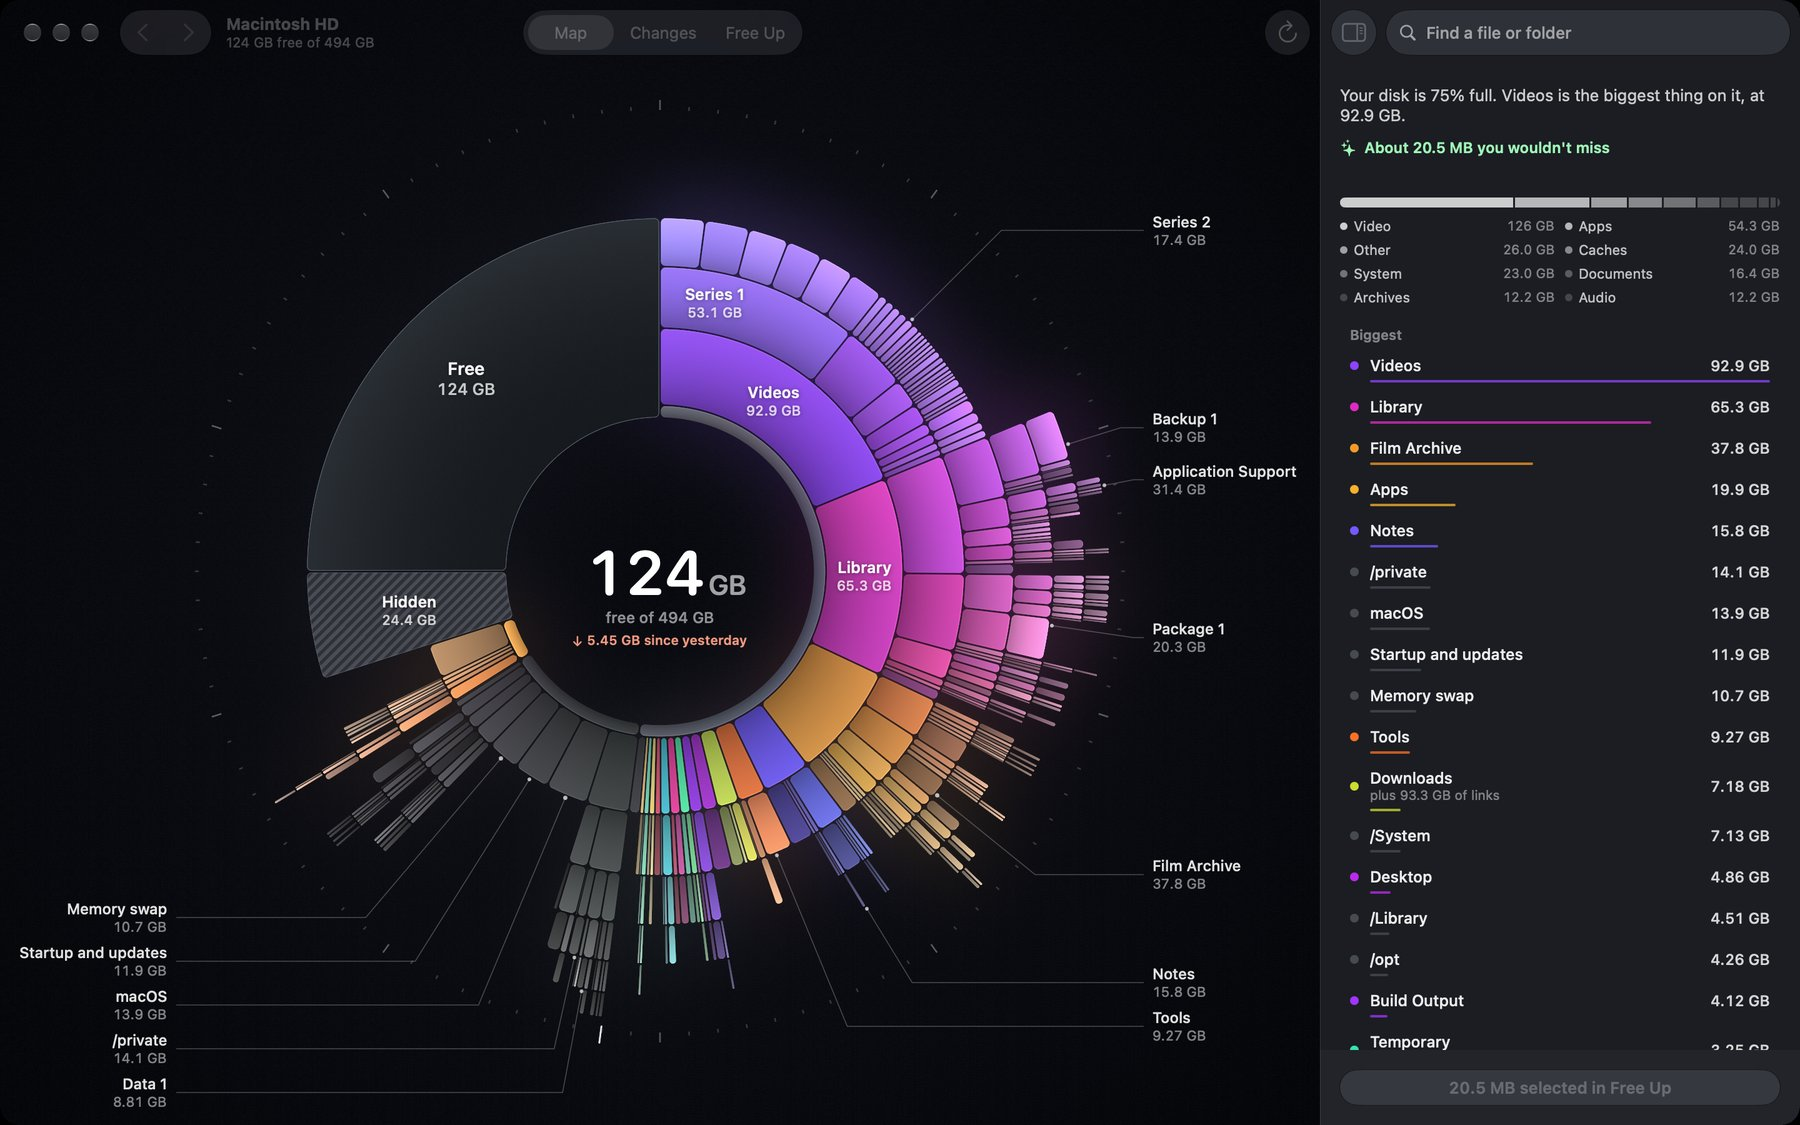
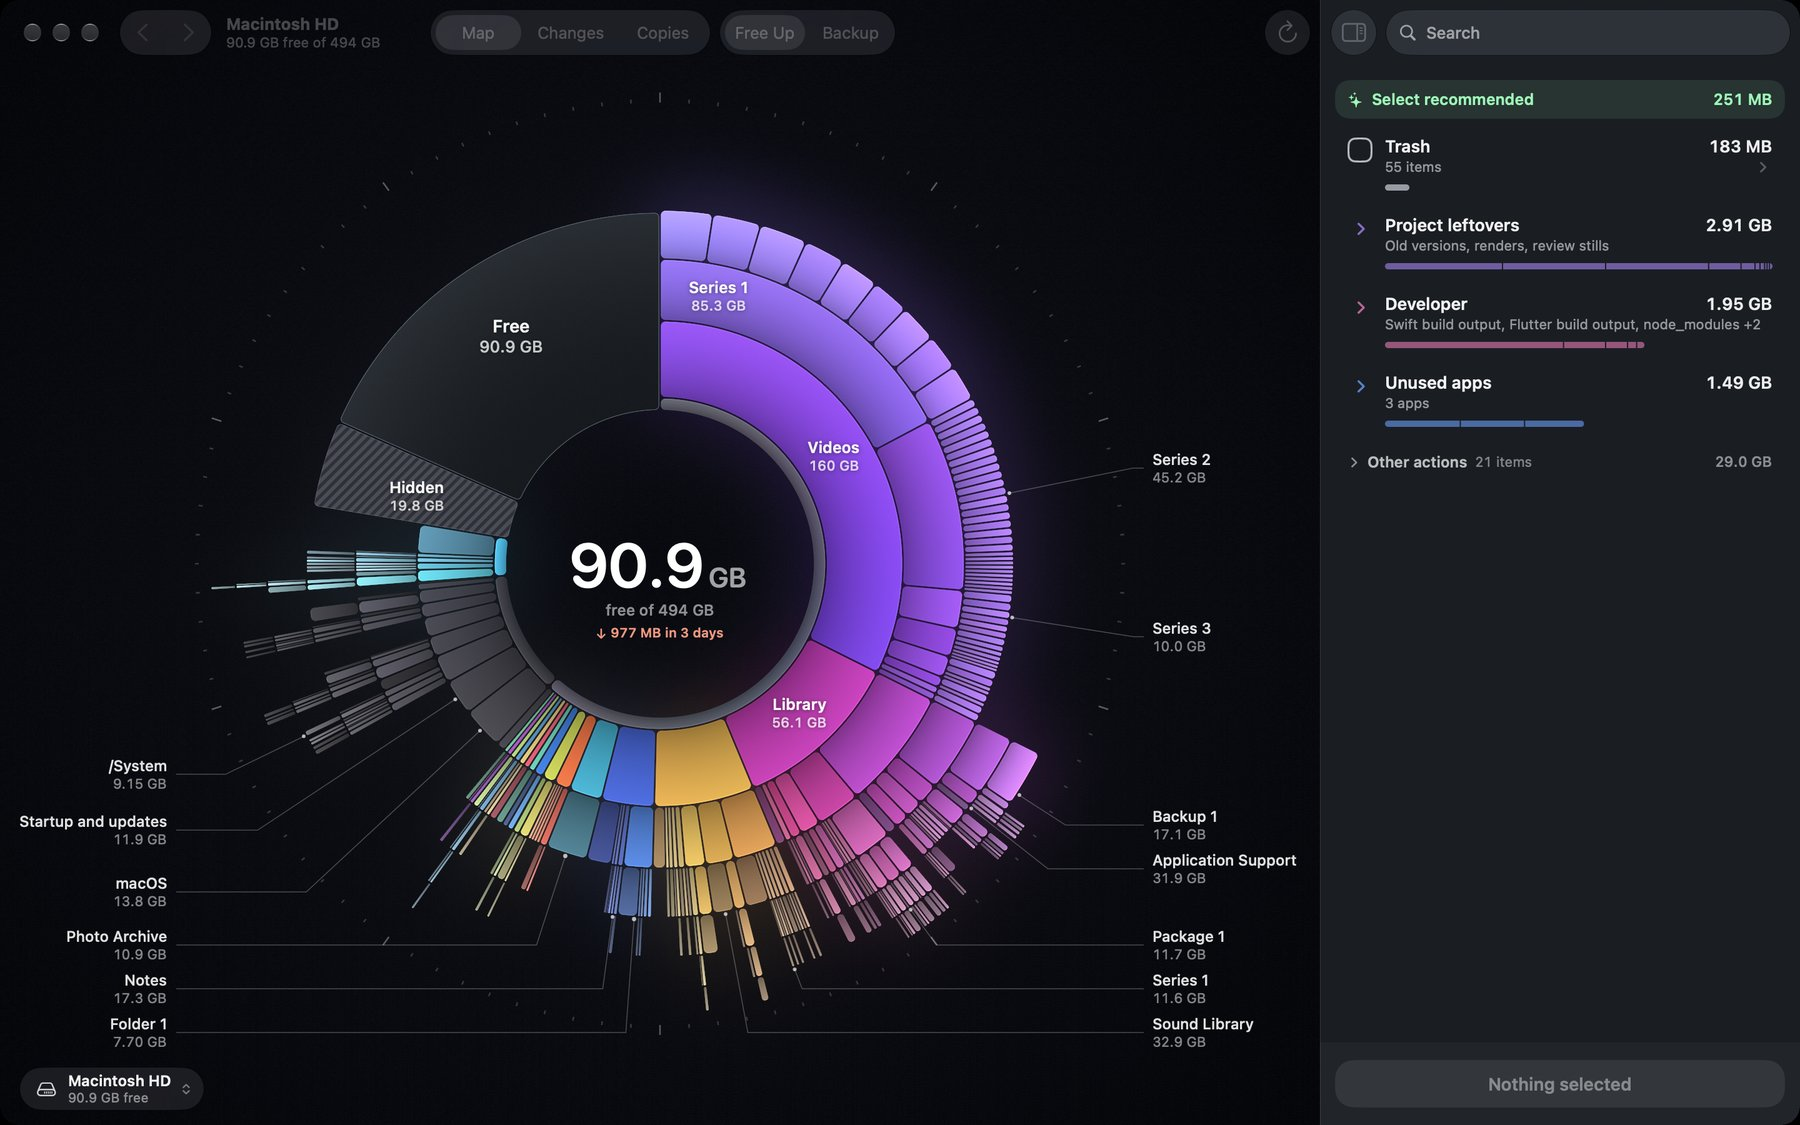
docs(readme): new screenshots, and one for Backup
Every picture still showed the old toolbar, with Map, Changes and Free Up
in one picker, and the panels before the shared controls. They're
retaken with made-up names: the map, Free Up with the Trash selected and
summed up at the top, Changes, Copies on a throwaway disk, search, and
the card, now a window of its own, over the ring. Backup gets its first
picture: a test disk and its drive as the two halves of the ring, with
four files ready to move.

diff --git a/README.md b/README.md
@@ -9,7 +9,7 @@
 
 ![Headroom's map of a whole disk: a glowing ring of folders, each group in its own colour, with free space as an open wedge and the biggest folders listed beside the ring](docs/map.jpg)
 
-<sub>The names in these screenshots are made up, using `--hide-names`.</sub>
+<sub>The names in these screenshots are made up, with `--hide-names` or on a throwaway test disk.</sub>
 
 ## Fast, all the way through
 
@@ -73,7 +73,7 @@ click the middle to go back up.
 
 ### Free Up
 
-![Free Up: a short stack of boxes, such as installers, caches and films, with the files of the box being pointed at lit up on the ring](docs/free-up.jpg)
+![Free Up: the Trash selected and summed up at the top with the free space after, a short stack of boxes below it, and the files of the box being pointed at lit up on the ring](docs/free-up.jpg)
 
 Things you may want to delete, in boxes named for what they are, biggest first: Caches, Junk, Developer, AI models,
 Unused apps, iPhone backups, Old installers, Screenshots and more. A Mac only gets the boxes it has something for.
@@ -85,7 +85,7 @@ permanently** frees the space, and **Undo** puts it all back.
 
 ### Changes
 
-![Changes: what was new or changed in the last seven days, each folder coloured from red for a little to yellow for all of it, with a list of the folders responsible](docs/changes.jpg)
+![Changes: what was new or changed in the last seven days, each folder coloured from red for a little to yellow for all of it, with the folders responsible named around the ring](docs/changes.jpg)
 
 What grew since the last scan, or in the last day, week or month. Each piece is coloured by how much of it is new or
 changed, from red for a little to yellow for all of it. The middle shows how much free space changed since an earlier
@@ -111,7 +111,7 @@ Copies, and never one that's only in iCloud.
 
 ### Search
 
-![Search: 69 matches for "mkv", each with its path and size, all of them lit up on the ring](docs/search.jpg)
+![Search: 80 matches for "mkv", each with its path and size, all of them lit up on the ring](docs/search.jpg)
 
 Press ⌘F and type. Matches are listed as you type, largest first, with their path and size, and light up on the ring.
 Search ignores case and accents, in any alphabet.
@@ -130,6 +130,8 @@ Double-click a file on the ring to open it. Right-click anything to copy its nam
 open it in Terminal or move it to the Trash.
 
 ### Backup
+
+![Backup: a disk and its backup drive as the two halves of the ring, with four files selected and summed up at the top of the inspector, ready to move to the drive](docs/backup.jpg)
 
 Backup moves files of 10 MB and up to another drive and leaves a small note in place of each. Choose the drive at the
 bottom right, select files in the list or on the ring, and click **Move**. On the drive, each file goes in a folder named
